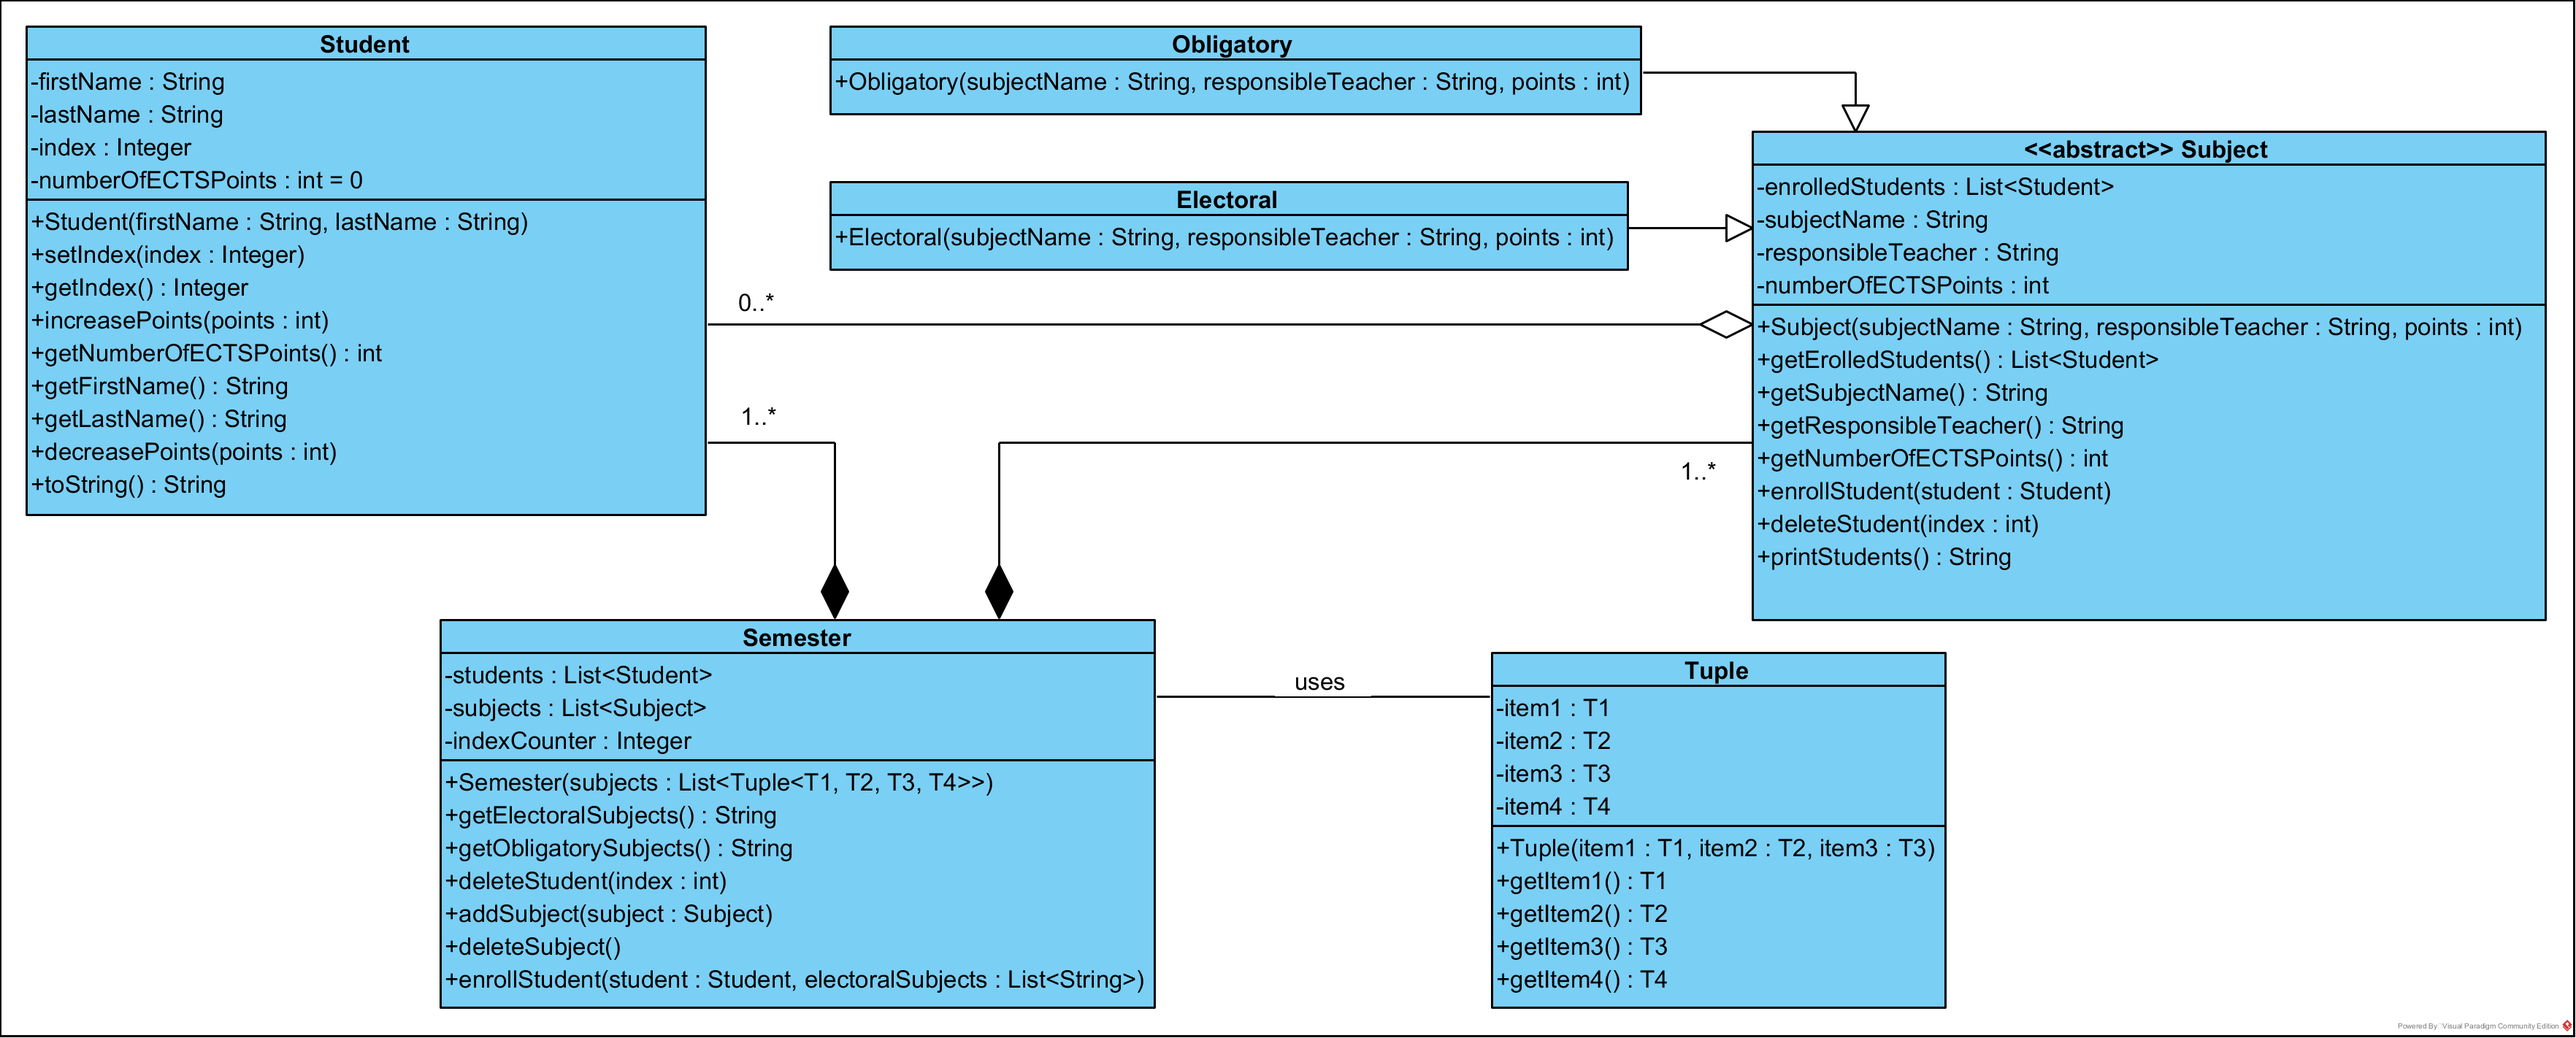
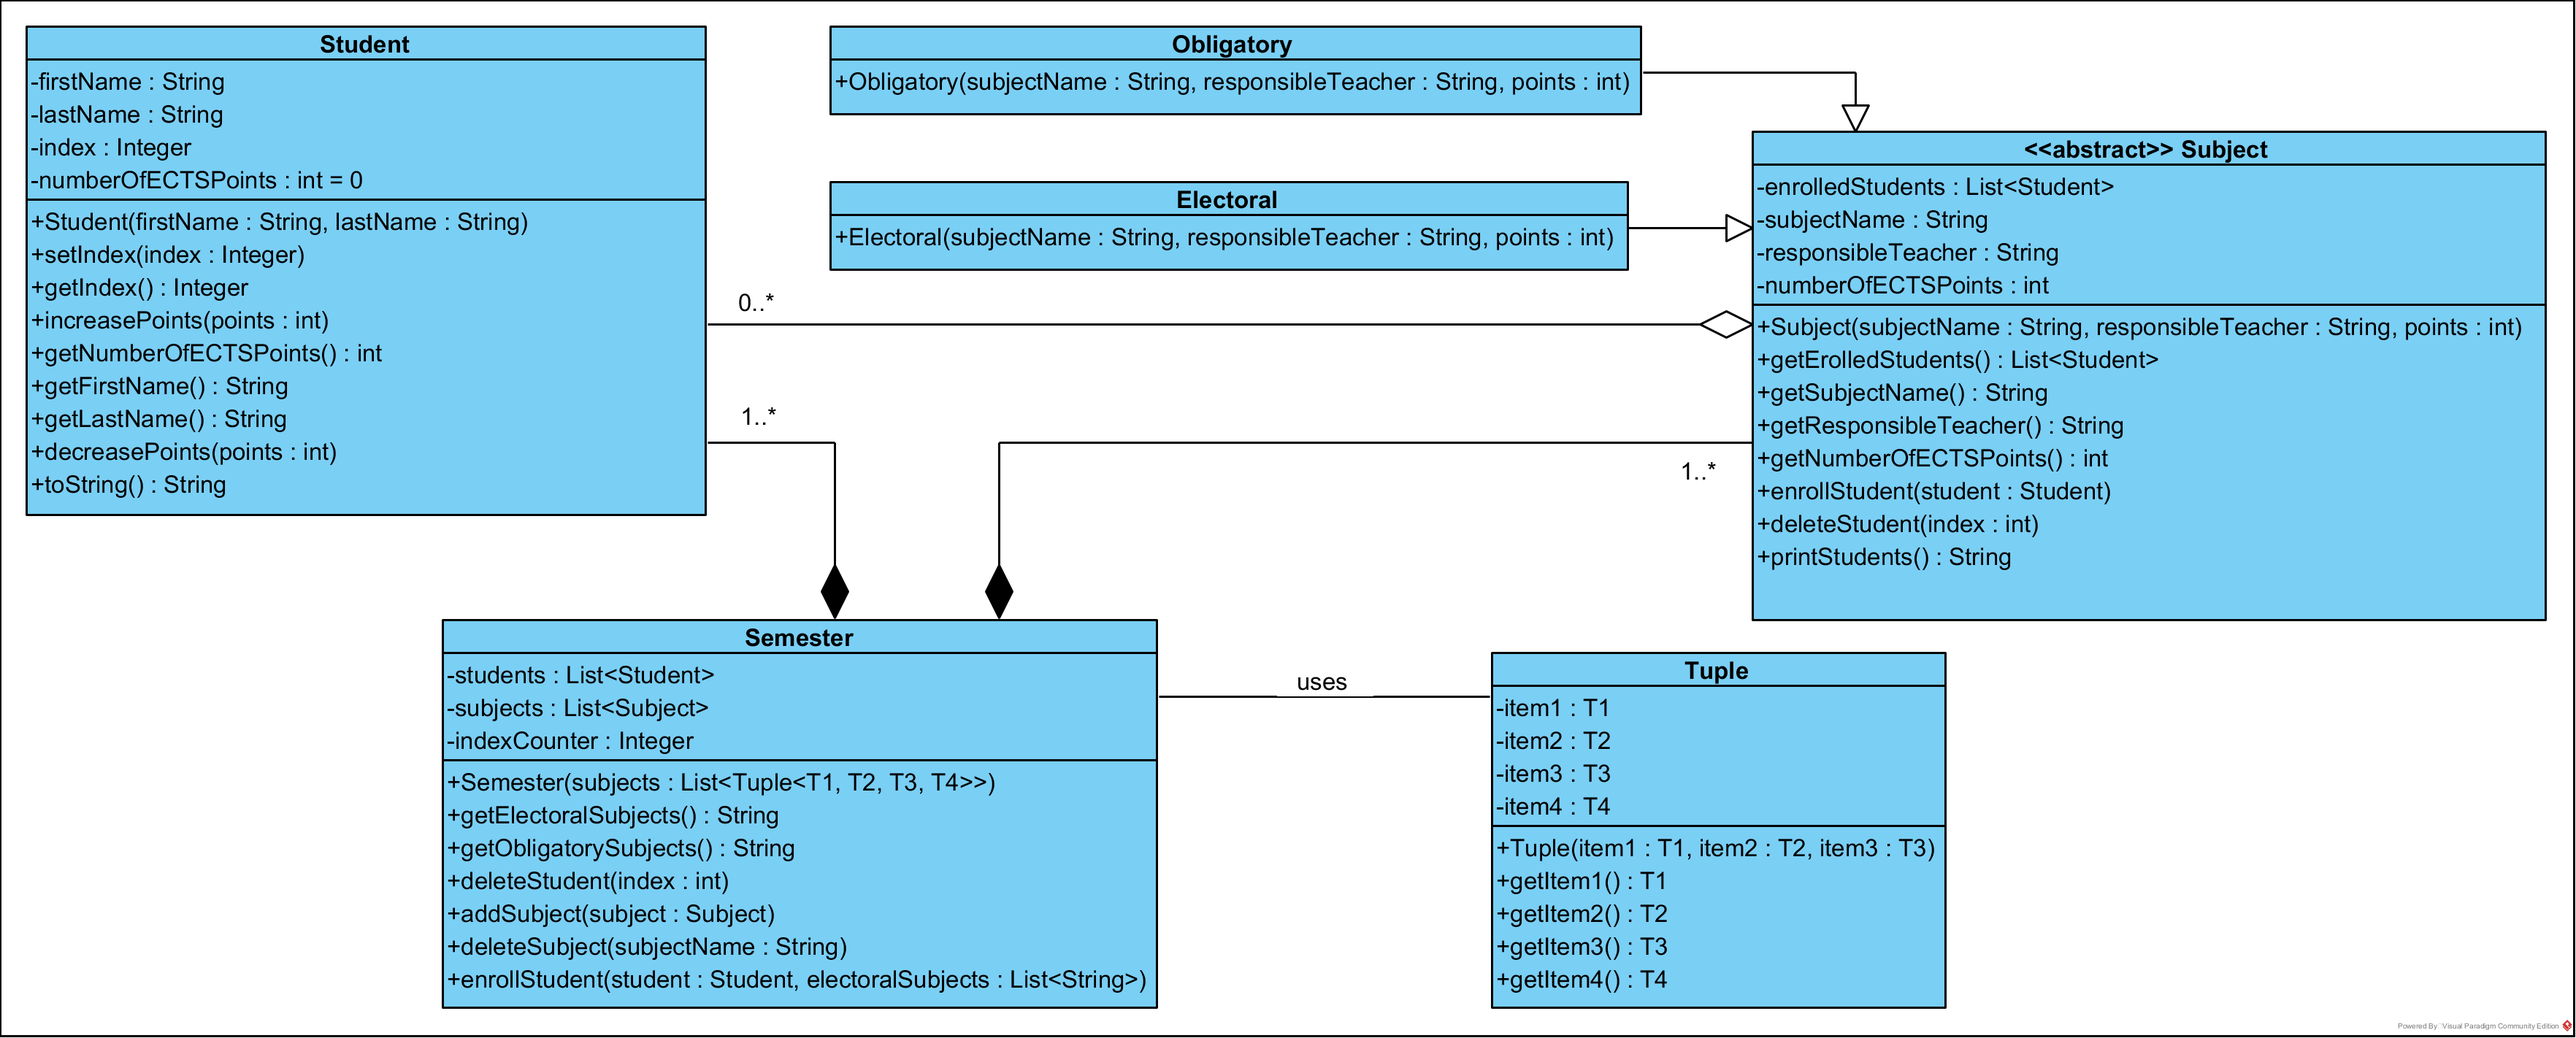
Implementirao klasu Semester i popravio neke sitnice

Changed region(s): [[0.1559, 0.6188, 0.4677, 0.9592], [0.2806, 0.5879, 0.343, 0.6188], [0.4989, 0.6498, 0.53, 0.6807]]

diff --git a/src/ba/unsa/etf/rpr/Semester.java b/src/ba/unsa/etf/rpr/Semester.java
@@ -1,4 +1,102 @@
 package ba.unsa.etf.rpr;
 
+import java.util.ArrayList;
+
 public class Semester {
+    private ArrayList<Student> students =  new ArrayList<>();
+    private ArrayList<Subject> subjects = new ArrayList<>();
+    Integer indexCounter = 15000;
+    public Semester(ArrayList<Tuple<String, String, Integer, Class>> subjects)throws IllegalArgumentException, NotEnoughPoints{
+        if(subjects == null) throw new IllegalArgumentException();
+        int sum = 0;
+        ArrayList<Subject> newSubjects = new ArrayList<>();
+        for(Tuple<String, String, Integer, Class> t : subjects) {
+            sum += t.getItem3();
+            if(t.getItem4() == Obligatory.class)
+                newSubjects.add(new Obligatory(t.getItem1(), t.getItem2(), t.getItem3()));
+            else newSubjects.add(new Electoral(t.getItem1(), t.getItem2(), t.getItem3()));
+        }
+        if(sum < 30) throw new NotEnoughPoints();
+        this.subjects = newSubjects;
+    }
+
+    public String getElectoralSubjects(){
+        String result = new String();
+        for(int i = 0; i < this.subjects.size(); i++){
+            if(this.subjects.get(i) instanceof Electoral){
+                result += Integer.toString(i + 1) + ". subjectName: " + this.subjects.get(i).getSubjectName() + ", responsibleTeacher: "
+                        + this.subjects.get(i).getResponsibleTeacher() + ", ECTS: " + Integer.toString(this.subjects.get(i).getNumberOfECTSPoints()) + "\n";
+            }
+        }
+        return result;
+    }
+    public String getObligatorySubjects(){
+        String result = new String();
+        for(int i = 0; i < this.subjects.size(); i++){
+            if(this.subjects.get(i) instanceof Obligatory){
+                result += Integer.toString(i + 1) + ". subjectName: " + this.subjects.get(i).getSubjectName() + ", responsibleTeacher: "
+                        + this.subjects.get(i).getResponsibleTeacher() + ", ECTS: " + Integer.toString(this.subjects.get(i).getNumberOfECTSPoints()) + "\n";
+            }
+        }
+        return result;
+    }
+    public void enrollStudent(Student student, ArrayList<String> electoralSubjects) throws NotEnoughPoints{
+        boolean ima = false; // check if electorals are correct
+        for(String electoral : electoralSubjects) {
+            ima = false;
+            for (Subject s : this.subjects) {
+                if (electoral.equalsIgnoreCase(s.getSubjectName())){
+                    ima = true;
+                    break;
+                }
+            }
+        }
+        if(!ima) throw new IllegalArgumentException();
+        for(Subject s : this.subjects){ // enroll student in subjects
+            if(s instanceof Obligatory) s.enrollStudent(student);
+            else {
+                for(String electoral : electoralSubjects)
+                    if(electoral.equalsIgnoreCase(s.getSubjectName())){
+                        s.enrollStudent(student);
+                        break;
+                    }
+            }
+        }
+        this.students.add(student); // add student to the semestar
+        if(student.getNumberOfECTSPoints() < 30){ // if not enugh ECTS delete student
+            deleteStudent(student.getIndex());
+            throw new NotEnoughPoints();
+        }
+    }
+    public void deleteStudent(Integer index){
+        for(Subject subject : this.subjects)
+            subject.deleteStudent(index);
+        for(int i = 0; i < this.students.size(); i++){
+            if(this.students.get(i).getIndex().equals(index)){
+                this.students.remove(i);
+                return;
+            }
+        }
+    }
+    public void addSubject(Subject subject){
+        for(Subject s : this.subjects)
+            if(s.getSubjectName().equalsIgnoreCase(subject.getSubjectName()))
+                throw new IllegalArgumentException();
+        this.subjects.add(subject);
+    }
+    public void deleteSubject(String subjectName){
+        Subject subject = null;
+        for(Subject s : this.subjects)
+            if(s.getSubjectName().equalsIgnoreCase(subjectName)){
+                subject = s;
+                break;
+            }
+        if(subject == null) throw new IllegalArgumentException();
+        this.subjects.remove(subject);
+        for(Student s : this.students){
+            subject.deleteStudent(s.getIndex());
+            if(s.getNumberOfECTSPoints() < 30)
+                deleteStudent(s.getIndex());
+        }
+    }
 }

diff --git a/src/ba/unsa/etf/rpr/Student.java b/src/ba/unsa/etf/rpr/Student.java
@@ -1,10 +1,10 @@
 package ba.unsa.etf.rpr;
 
 public class Student {
-    String firstName;
-    String lastName;
-    Integer index;
-    int numberOfECTSPoints = 0;
+    private String firstName;
+    private String lastName;
+    private Integer index;
+    private int numberOfECTSPoints = 0;
     public Student(String firstName, String lastName){
         this.firstName = firstName;
         this.lastName = lastName;
@@ -15,8 +15,7 @@ public class Student {
     public int getNumberOfECTSPoints() { return this.numberOfECTSPoints; }
     public String getFirstName() { return this.firstName; }
     public String getLastName() { return this.lastName; }
-    public void decreasePoints(int points) throws NotEnoughPoints{
-        if(this.numberOfECTSPoints - points < 30) throw new NotEnoughPoints();
+    public void decreasePoints(int points){
         numberOfECTSPoints -= points;
     }
 

diff --git a/src/ba/unsa/etf/rpr/Subject.java b/src/ba/unsa/etf/rpr/Subject.java
@@ -33,7 +33,7 @@ public abstract class Subject {
         enrolledStudents.add(student);
         student.increasePoints(getNumberOfECTSPoints());
     }
-    public void deleteStudent(int index) throws NotEnoughPoints{
+    public void deleteStudent(int index){
         for(int i = 0; i < enrolledStudents.size(); i++)
             if(enrolledStudents.get(i).getIndex().equals(index)){
                 enrolledStudents.get(i).decreasePoints(getNumberOfECTSPoints());
@@ -45,7 +45,7 @@ public abstract class Subject {
     public String printStudents(){
         String result = new String();
         for(int i = 0; i < enrolledStudents.size(); i++)
-            result = result + Integer.toString(i + 1) + enrolledStudents.get(i).toString() + "\n";
+            result = result + Integer.toString(i + 1) + ". " + enrolledStudents.get(i).toString() + "\n";
         return result;
     }
 }

diff --git a/src/ba/unsa/etf/rpr/Tuple.java b/src/ba/unsa/etf/rpr/Tuple.java
@@ -1,10 +1,10 @@
 package ba.unsa.etf.rpr;
 
 public class Tuple<T1, T2, T3, T4> {
-    T1 item1 = null;
-    T2 item2 = null;
-    T3 item3 = null;
-    T4 item4 = null;
+    private T1 item1 = null;
+    private T2 item2 = null;
+    private T3 item3 = null;
+    private T4 item4 = null;
     Tuple(T1 item1, T2 item2, T3 item3, T4 item4){
         if(item1 == null || item2 == null || item3 == null || item4 == null) throw new IllegalArgumentException();
         this.item1 = item1;
